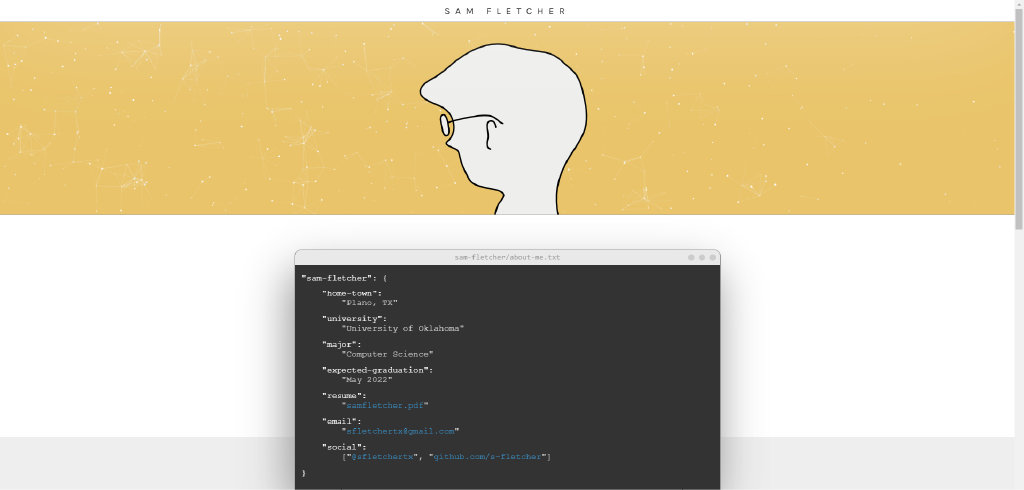
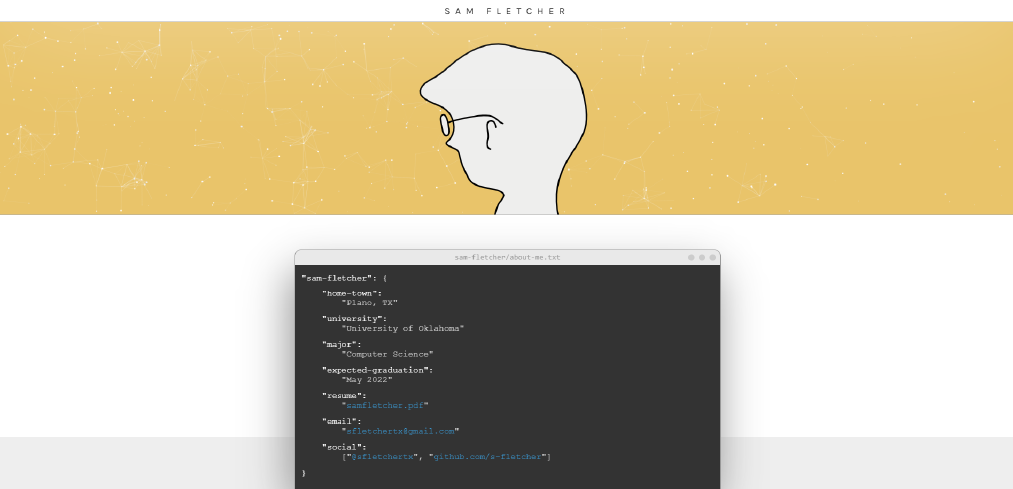
cropped pic and fix meta link

diff --git a/index.html b/index.html
@@ -9,7 +9,7 @@
     <meta charset="utf-8">
     <title>Sam Fletcher</title>
     <!-- for search engine -->
-    <meta property="og:image" content="images/search-pic.png">
+    <meta property="og:image" content="images/search-pic.png" />
     <meta name="description" content="Sam Fletcher. A portfolio for a Computer Science student at the University of Oklahoma." />
     <meta name="keywords" content="Sam Fletcher, CS, Computer Science, University of Oklahoma, OU, Student, Portfolio, Hacklahoma">
     <meta name="author" content="Sam Fletcher">
